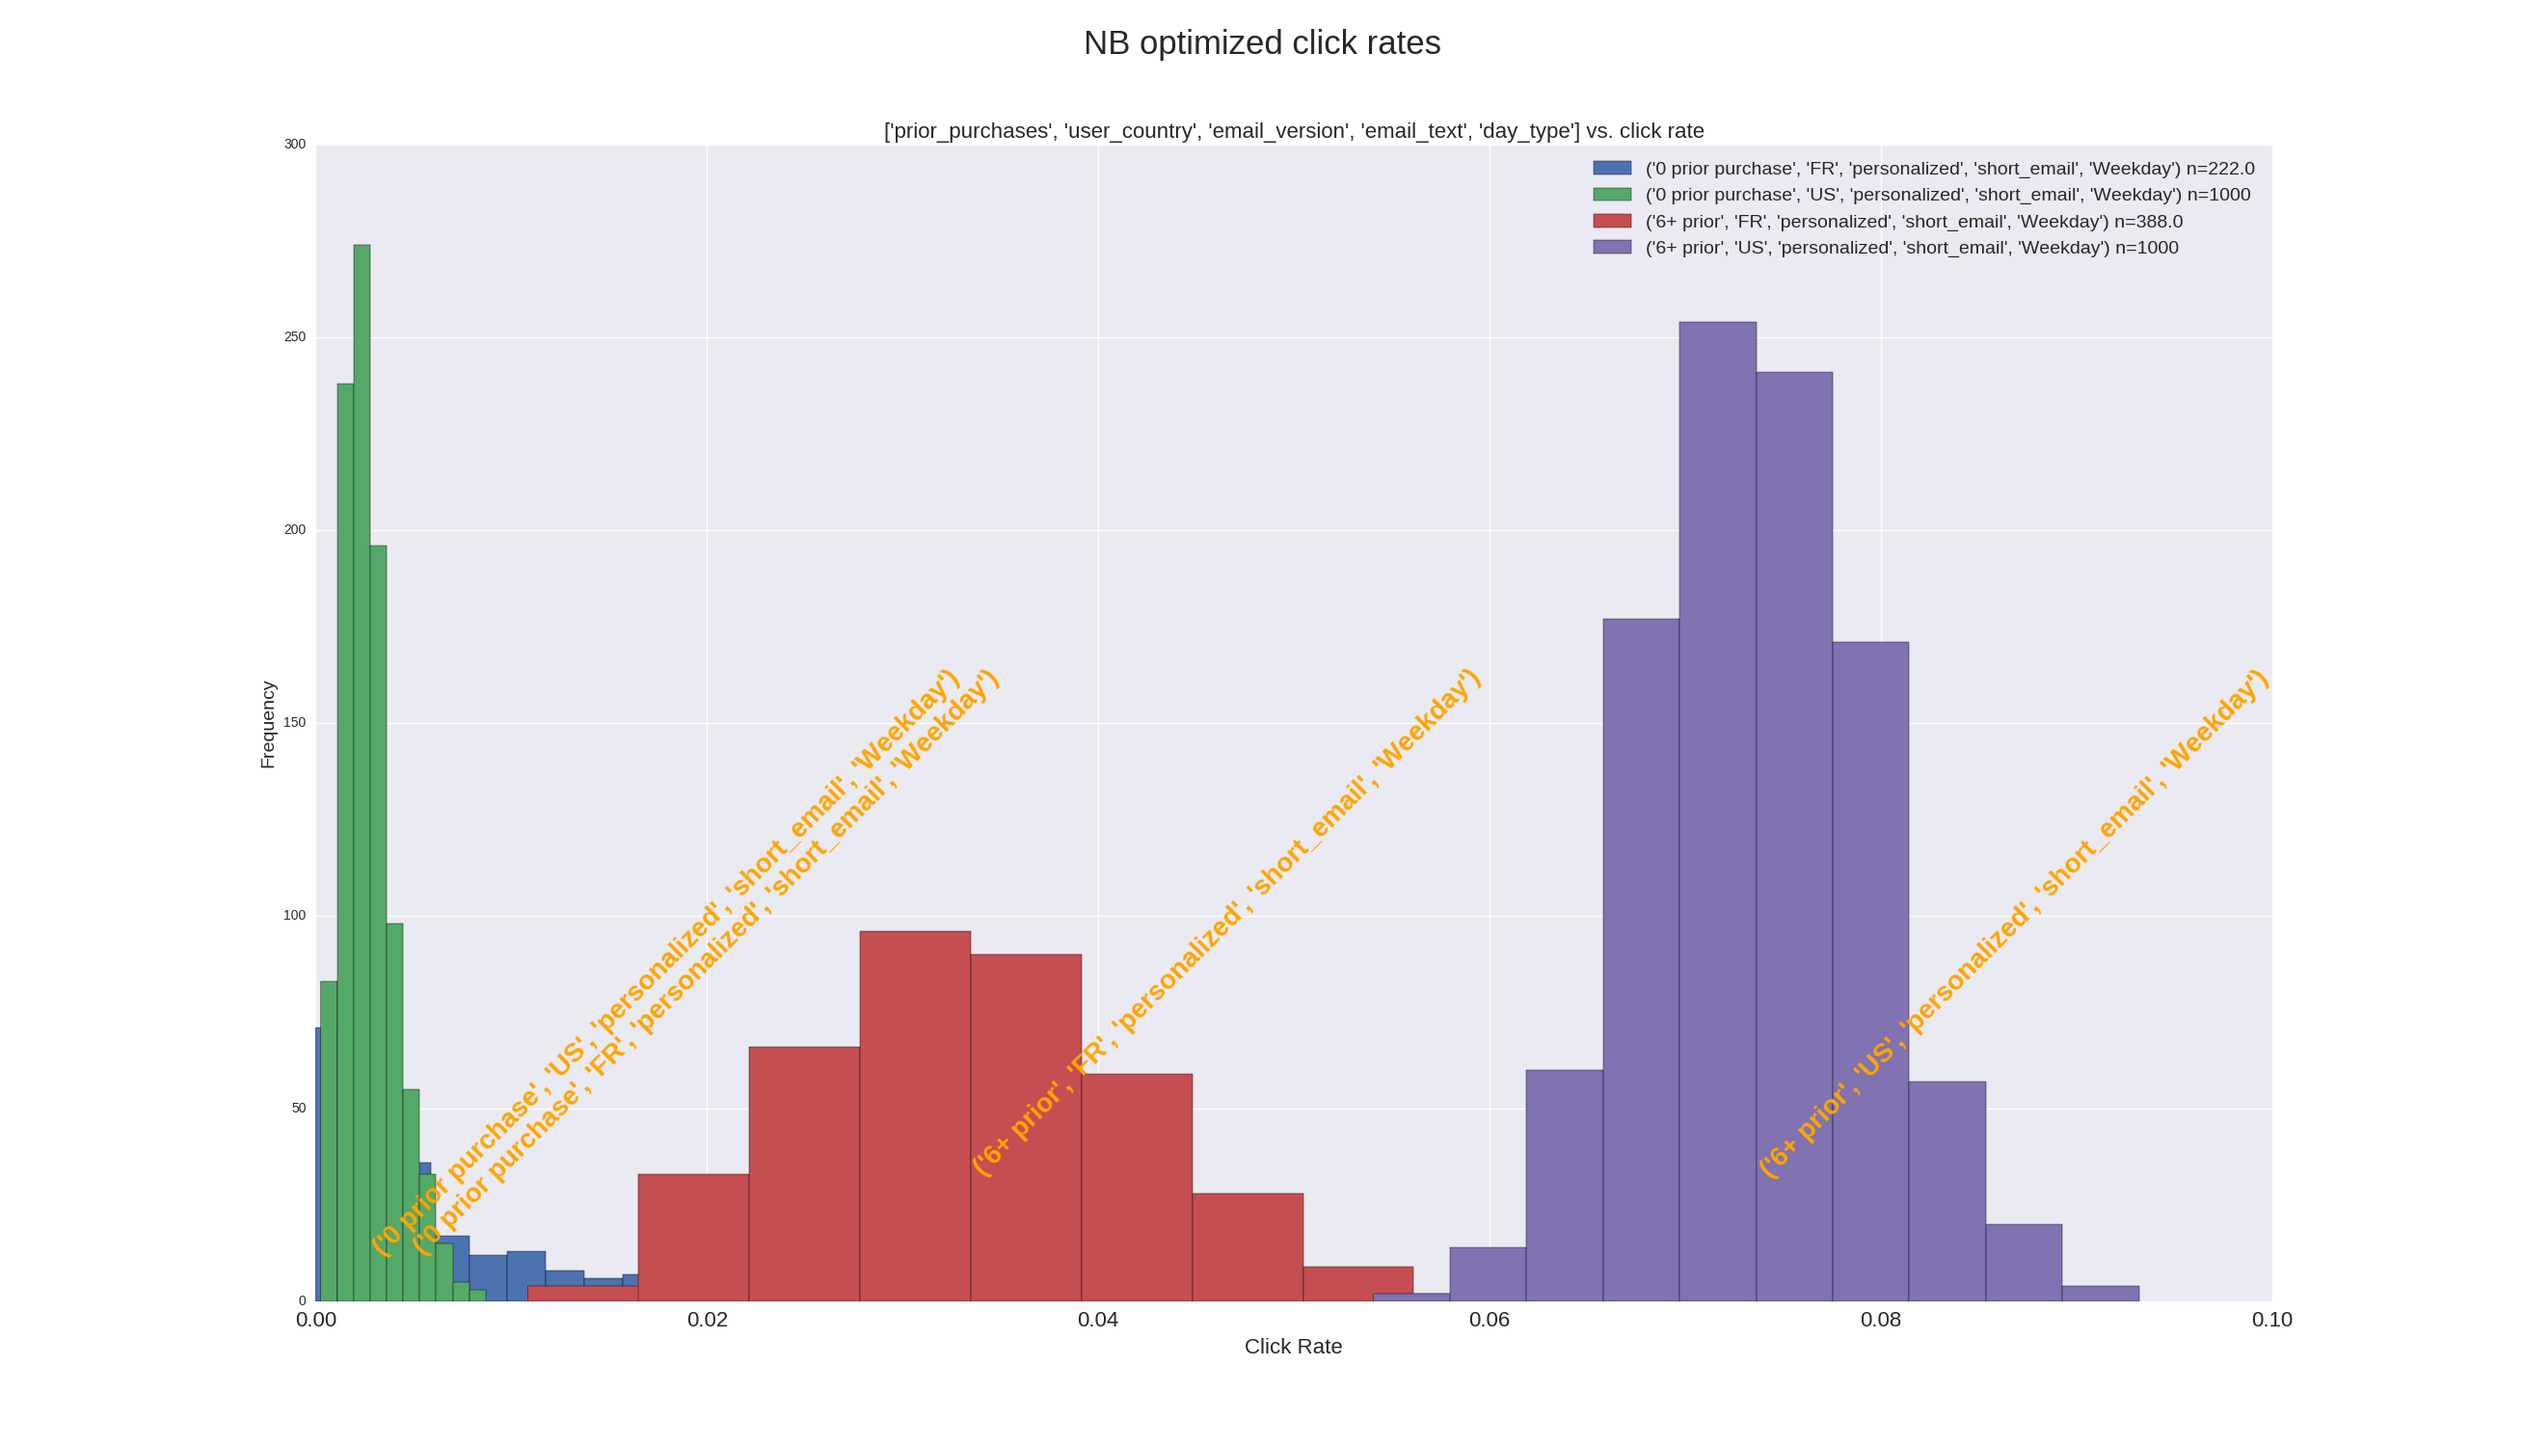
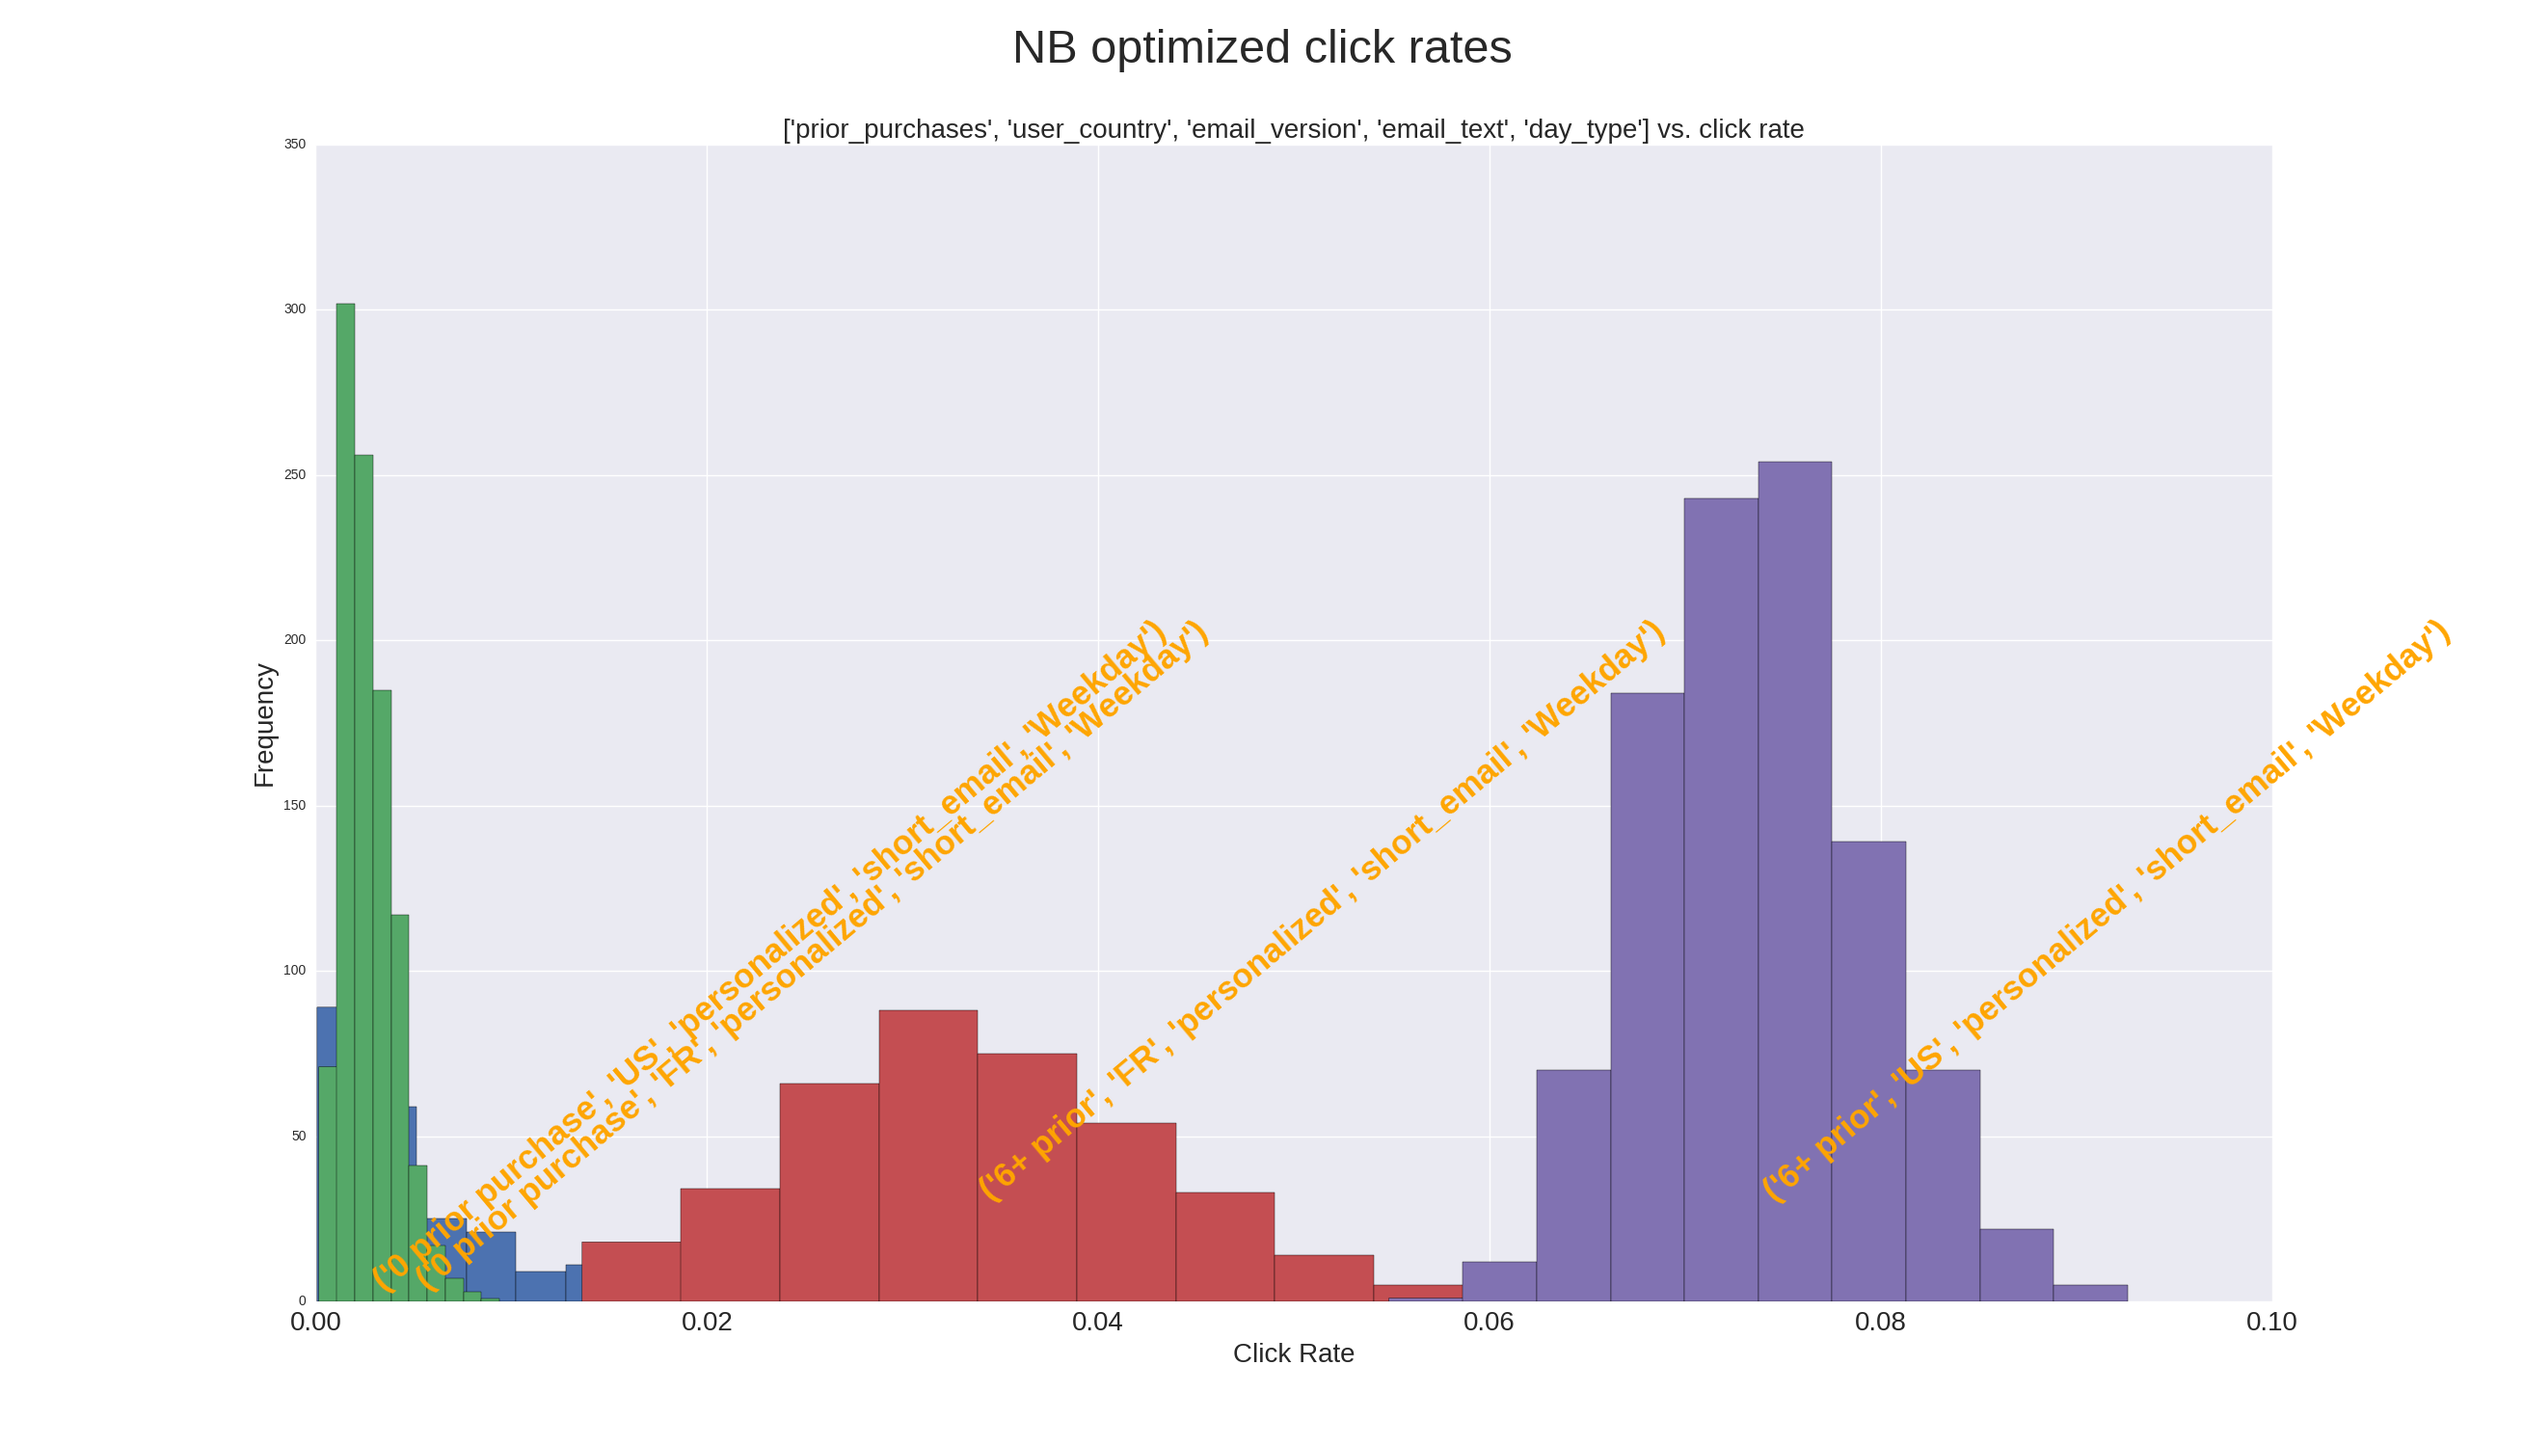
prettify

diff --git a/sampling.py b/sampling.py
@@ -29,7 +29,7 @@ def run_sim():
             n,email_sim=NB_sim(p.values[z,0],p.values[z,1])
             m=np.mean(email_sim)
 
-            ax.text(m,-50,p.index[z],fontsize=20,fontweight='bold',rotation=45,color='orange')
+            ax.text(m,-10,p.index[z],fontsize=20,fontweight='bold',rotation=45,color='orange')
 
             ax.hist(email_sim,label="{} n={}".format(p.index[z],n))
 
@@ -46,7 +46,7 @@ def run_sim2():
     d=data()
 
     fig = plt.figure(2, figsize=(30, 15))
-    fig.suptitle('NB optimized click rates',fontsize=25)
+    fig.suptitle('NB optimized click rates',fontsize=35)
     for j,i in enumerate([['prior_purchases','user_country','email_version','email_text','day_type']]):
         #print d.head()
 
@@ -67,16 +67,16 @@ def run_sim2():
             n,email_sim=NB_sim(p.values[z,0],p.values[z,1])
             m=np.mean(email_sim)
             #print m
-            ax.text(m,160,p.index[z],fontsize=20,fontweight='bold',rotation=45,color='orange')
+            ax.text(m,200,p.index[z],fontsize=25,fontweight='bold',rotation=40,color='orange')
 
             ax.hist(email_sim,label="{} n={}".format(p.index[z],n))
 
-        ax.set_title('{} vs. click rate'.format(i),fontsize=16)
-        ax.set_xlabel('Click Rate',fontsize=16)
-        plt.xticks(fontsize=16)
+        ax.set_title('{} vs. click rate'.format(i),fontsize=20)
+        ax.set_xlabel('Click Rate',fontsize=20)
+        plt.xticks(fontsize=20)
 
-        ax.legend(loc=0,fontsize=14)
-        ax.set_ylabel('Frequency',fontsize=14)
+        #ax.legend(loc=0,fontsize=16)
+        ax.set_ylabel('Frequency',fontsize=20)
     plt.show()
 
 
